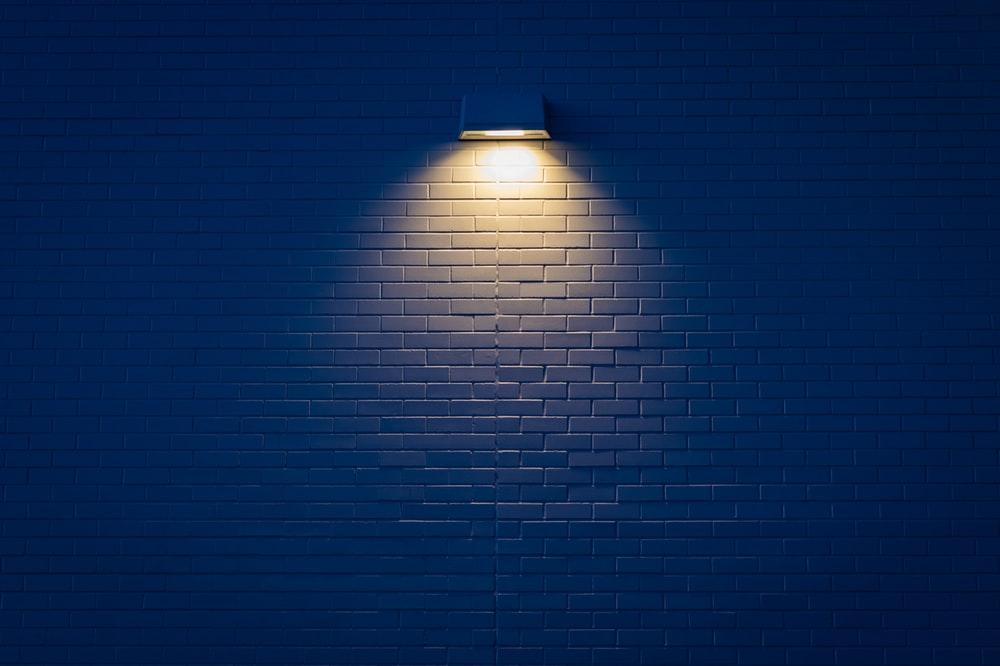
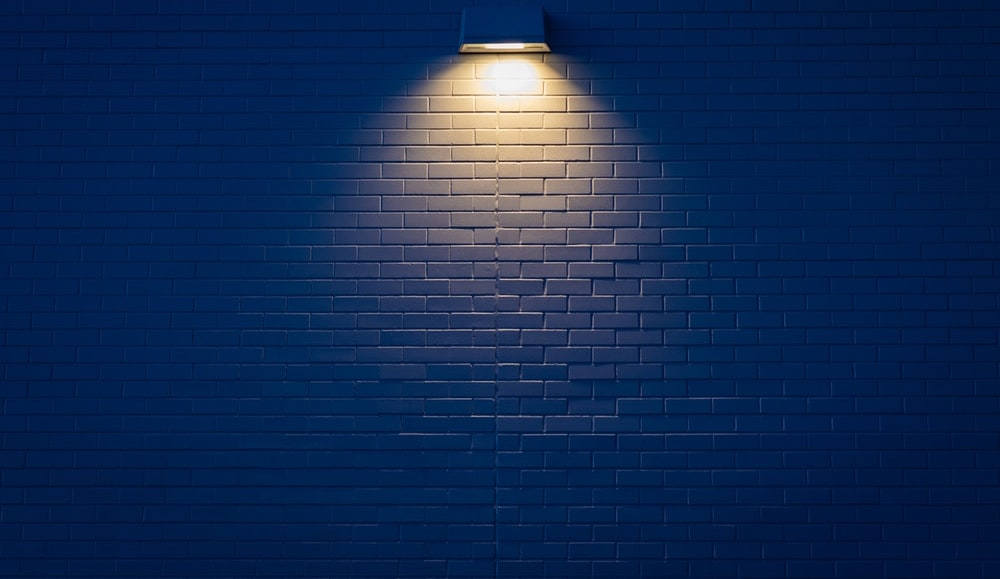
cropping contact img

Changed region(s): [[0.279, 0.0311, 0.713, 0.8083], [0.682, 0.715, 0.744, 0.7772], [0.713, 0.6839, 0.744, 0.715]]

diff --git a/candidacy.html b/candidacy.html
@@ -84,8 +84,6 @@
 					<tag id='chu2017'></tag>
 					<tag id='kim2019'></tag>
 
-    	</div>
-    	<div id="row">
 				<h5 id='ai'>Target Areas</h5>
 					<tag id='kaufman14'></tag>
 					<tag id='macklin2014'></tag>
